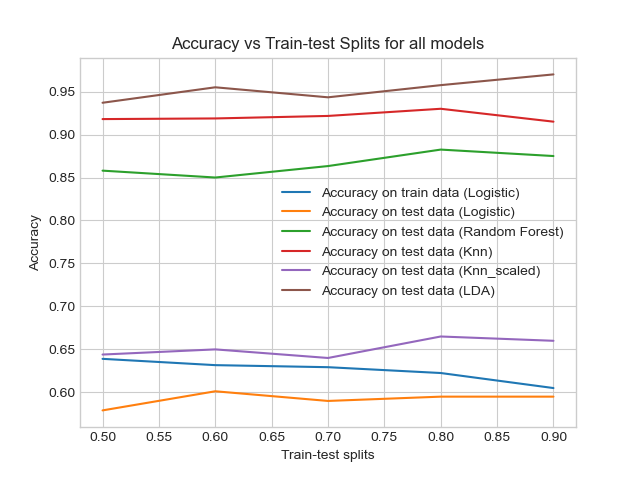
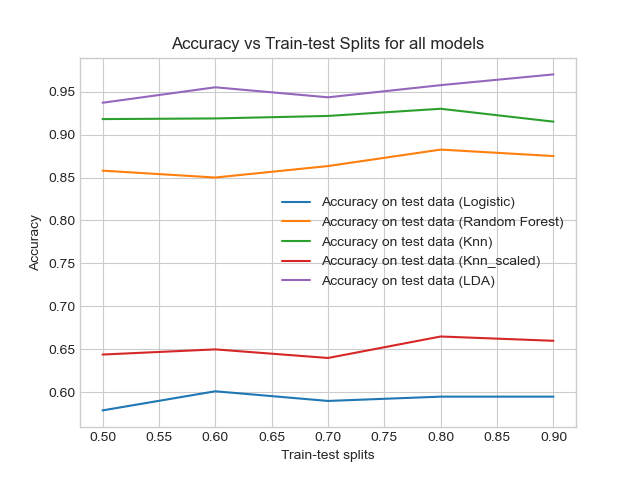
Adjustments (moved scalar function to modelconstruct)

diff --git a/DataAnalysis.py b/DataAnalysis.py
@@ -12,7 +12,7 @@ def preprocessing(dataset):
 def corrleation_heatmap(dataset):
     df=pd.read_csv(dataset)
     fig, ax = plt.subplots(figsize=(15,15))
-    sns.heatmap(df.corr(), annot = True, fmt= '.1g', vmin=-1, vmax=1, cmap='coolwarm', mask=np.triu(df.corr()))
+    sns.heatmap(df.corr(), annot = True, fmt= '.1g', vmin=-1, vmax=1, cmap='coolwarm',  cbar_kws= {'orientation': 'horizontal'} )
     plt.title('Correlation between Features')
     plt.savefig('plots/CorrelationHeatmap')
     plt.close()
@@ -20,14 +20,4 @@ def corrleation_heatmap(dataset):
 
 
 
-df=pd.read_csv('MobilePricingUpdated.csv') #Importing the preprocessed dataset
-#Camera: how many phones vs camera megapixels of primary and front facing camera
-plt.figure(figsize=(10,6))
-df['fc'].hist(alpha=0.5,color='yellow',label='Front camera')
-df['pc'].hist(alpha=0.5,color='blue',label='Primary camera')
-plt.legend()
-plt.xlabel('MegaPixels')
-plt.ylabel('Number of phones')
-
-#plt.show()
 

diff --git a/plots.py b/plots.py
@@ -56,14 +56,15 @@ def rf_hyperparameters(dataset):
 
 def oob_error_rf(dataset):
     X_train, Y_train, X_test, Y_test = train_test_data(dataset, 0.8) #runs train_test_split function
-    n_range=range(15,100)
+    n_range=range(10,100)
     oob_errors=[]
     for i in n_range:
         RFClassifier = RandomForestClassifier(n_estimators=i, oob_score=True, random_state=4)
         RFClassifier.fit(X_train,Y_train)
         oob_errors.append(1-RFClassifier.oob_score_)
 
-    plt.plot(n_range, oob_errors)
+    plt.plot(n_range, oob_errors, color='blue', linestyle='dashed', marker='o',
+            markerfacecolor='red', markersize=3)
     plt.title('OOB error vs Number of trees')
     plt.xlabel('Number of trees (n_estimators)')
     plt.ylabel('OOB Error')

diff --git a/main.py b/main.py
@@ -57,7 +57,7 @@ def main(ifname):
         acc_Knn_scaled, micro_f1_Knn_scaled, macro_f1_Knn_scaled, run_time_Knn_scaled = Knn_scaled(ifname,n,77)
         accLDA, microf1_LDA, macrof1_LDA, runtime_LDA = LDA(ifname, n)
 
-        accuracy_train.append(acc_train)
+        
         accuracy_test.append(acc_test)
         microf1_scores.append(microf1)
         macrof1_scores.append(macrof1)
@@ -80,10 +80,6 @@ def main(ifname):
 
     
     
-    
-
-    
-    plt.plot(nvals, accuracy_train, label='Accuracy on train data (Logistic)')
     plt.plot(nvals, accuracy_test, label='Accuracy on test data (Logistic)')
     plt.plot(nvals, acc_RF, label='Accuracy on test data (Random Forest)')
     plt.plot(nvals,acc_Knnl,label='Accuracy on test data (Knn)')

diff --git a/Knn.py b/Knn.py
@@ -1,5 +1,6 @@
 from sklearn.neighbors import KNeighborsClassifier
 from modelconstruct import train_test_data
+from modelconstruct import standardscaler # Importing this for the scaled data
 from metrics import accuracy
 from metrics import confusion_matrix
 from metrics import precision_and_recall
@@ -10,7 +11,6 @@ import numpy as np
 import time
 import matplotlib.pyplot as plt
 np.random.seed(42) #seed for repeatable results
-from SoftmaxRegression import standardscaler # Importing this for the scaled data
 plt.style.use('seaborn-whitegrid')
 
 

diff --git a/SoftmaxRegression.py b/SoftmaxRegression.py
@@ -62,15 +62,10 @@ def predictionfromprobability(x,w):
     prediction= np.argmax(probability, axis=1)
     return probability, prediction
 
-def standardscaler(array):
-    for i in range(array.shape[1]):
-        column=array[:,i]
-        mean=column.mean()
-        sd=column.std()
-        array[:,i]=(array[:,i]-mean)/sd
-    return array
+
 
 from modelconstruct import train_test_data
+from modelconstruct import standardscaler
 from metrics import accuracy
 from metrics import confusion_matrix
 from metrics import precision_and_recall

diff --git a/modelconstruct.py b/modelconstruct.py
@@ -16,3 +16,11 @@ def train_test_data(dataset, n):
     y_test = ys[test_index_array]
 
     return x_train, y_train, x_test, y_test
+
+def standardscaler(array):
+    for i in range(array.shape[1]):
+        column=array[:,i]
+        mean=column.mean()
+        sd=column.std()
+        array[:,i]=(array[:,i]-mean)/sd
+    return array
